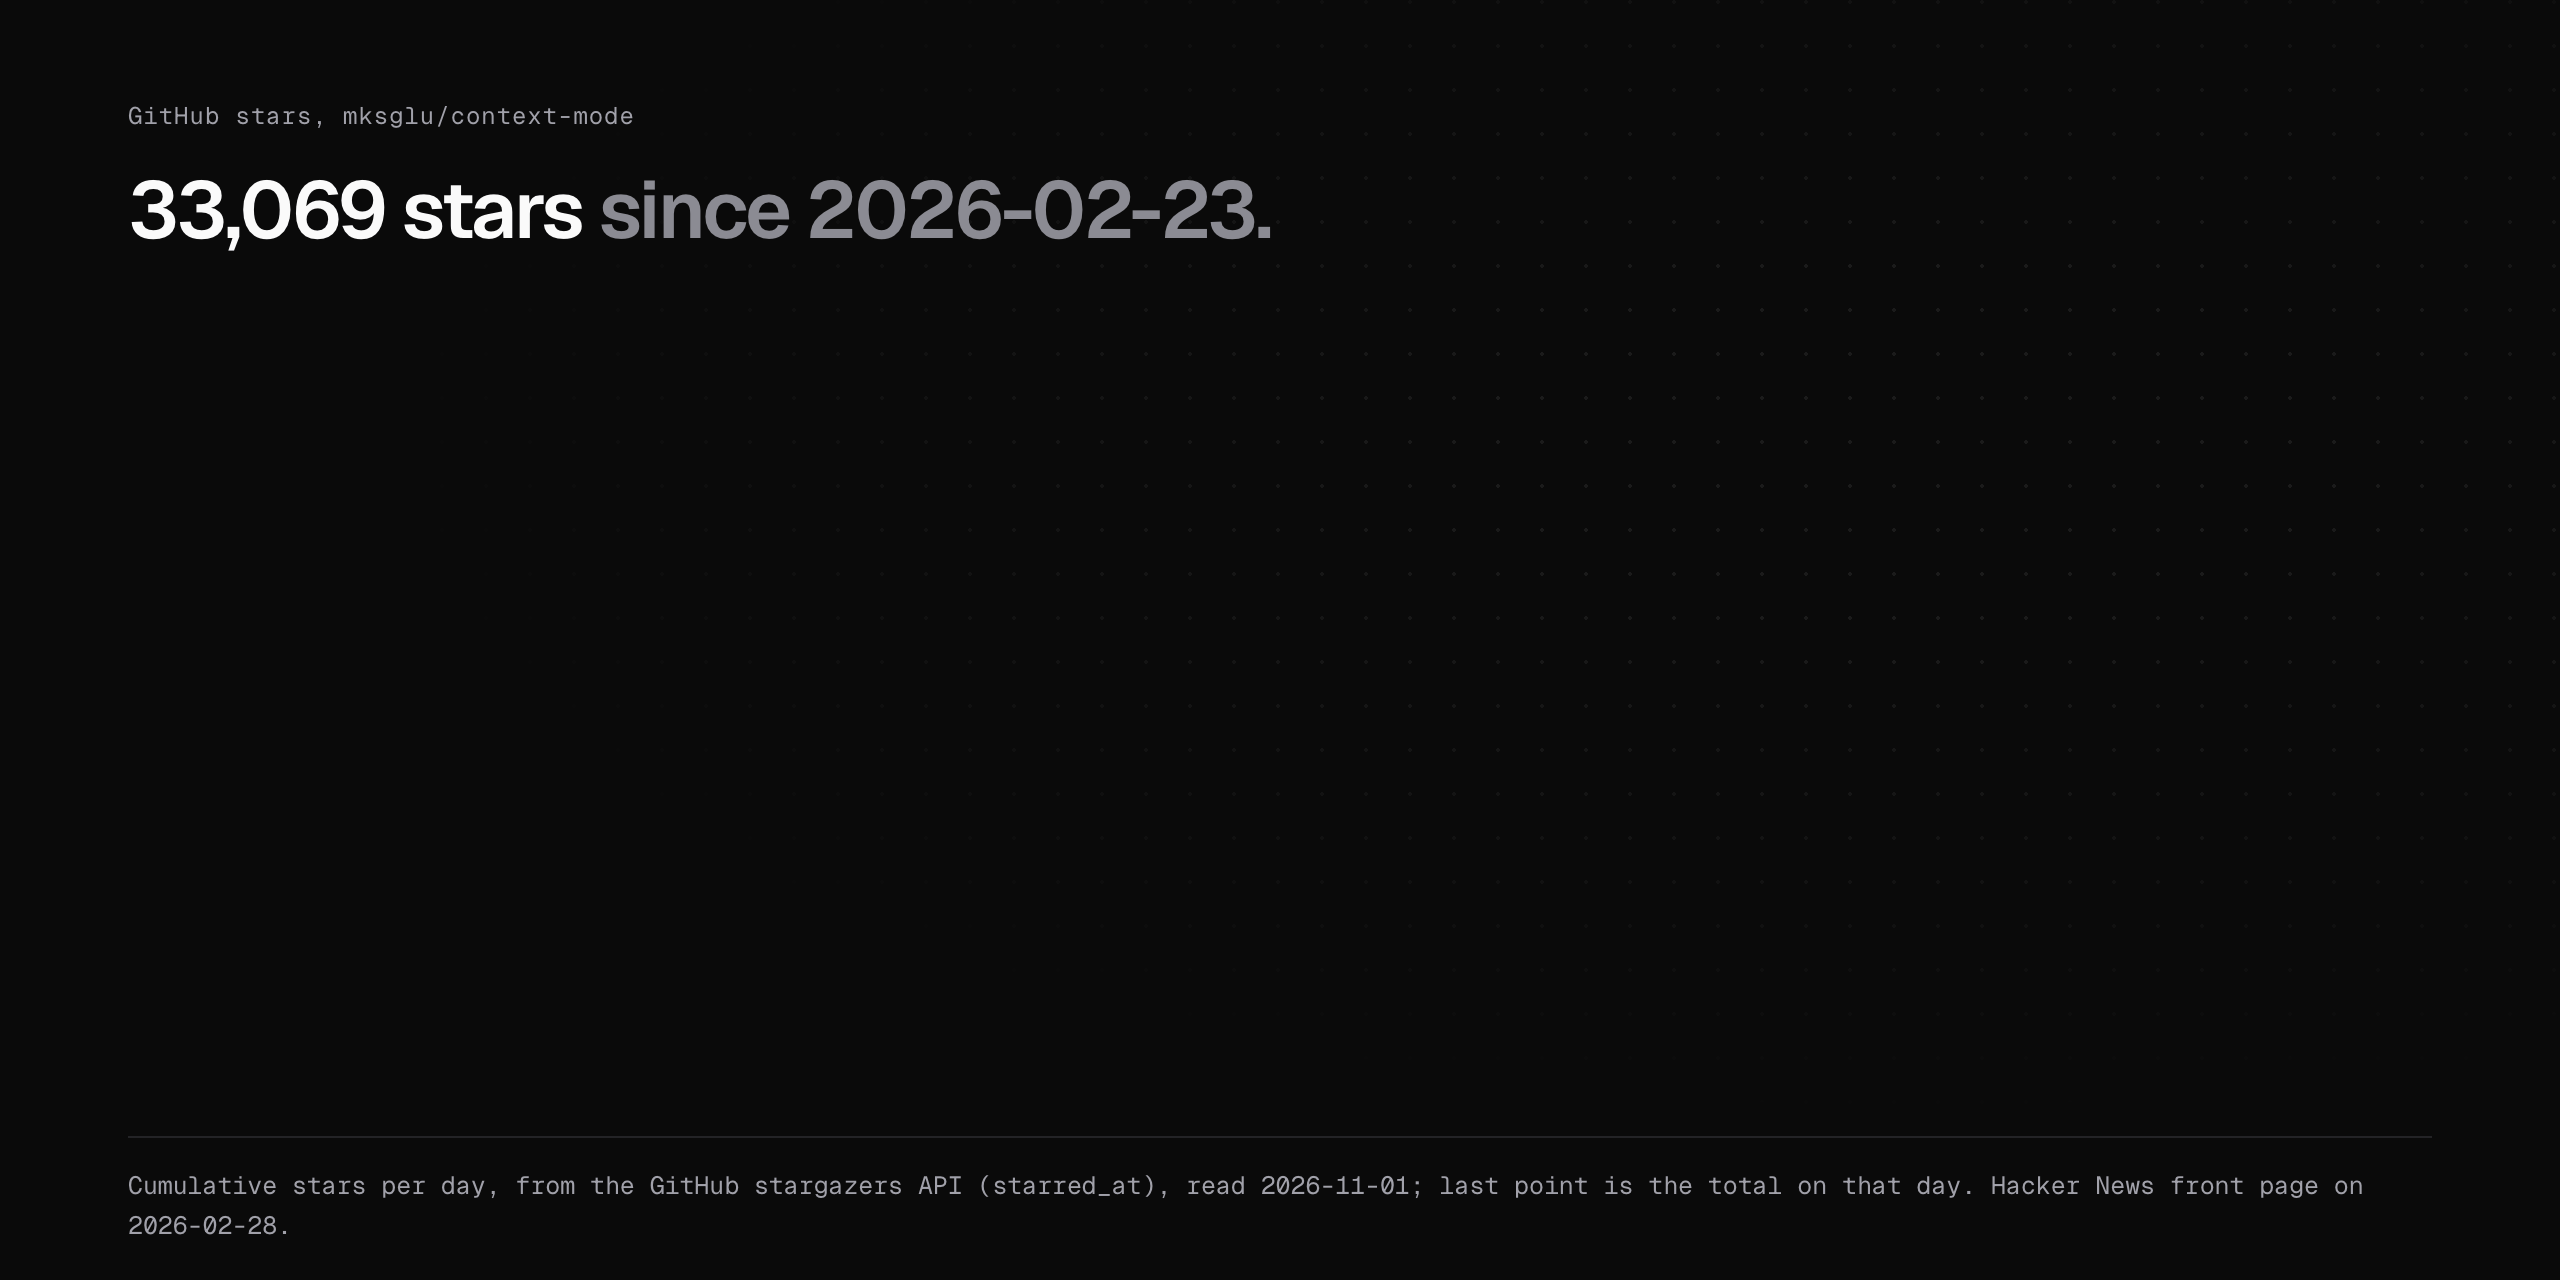
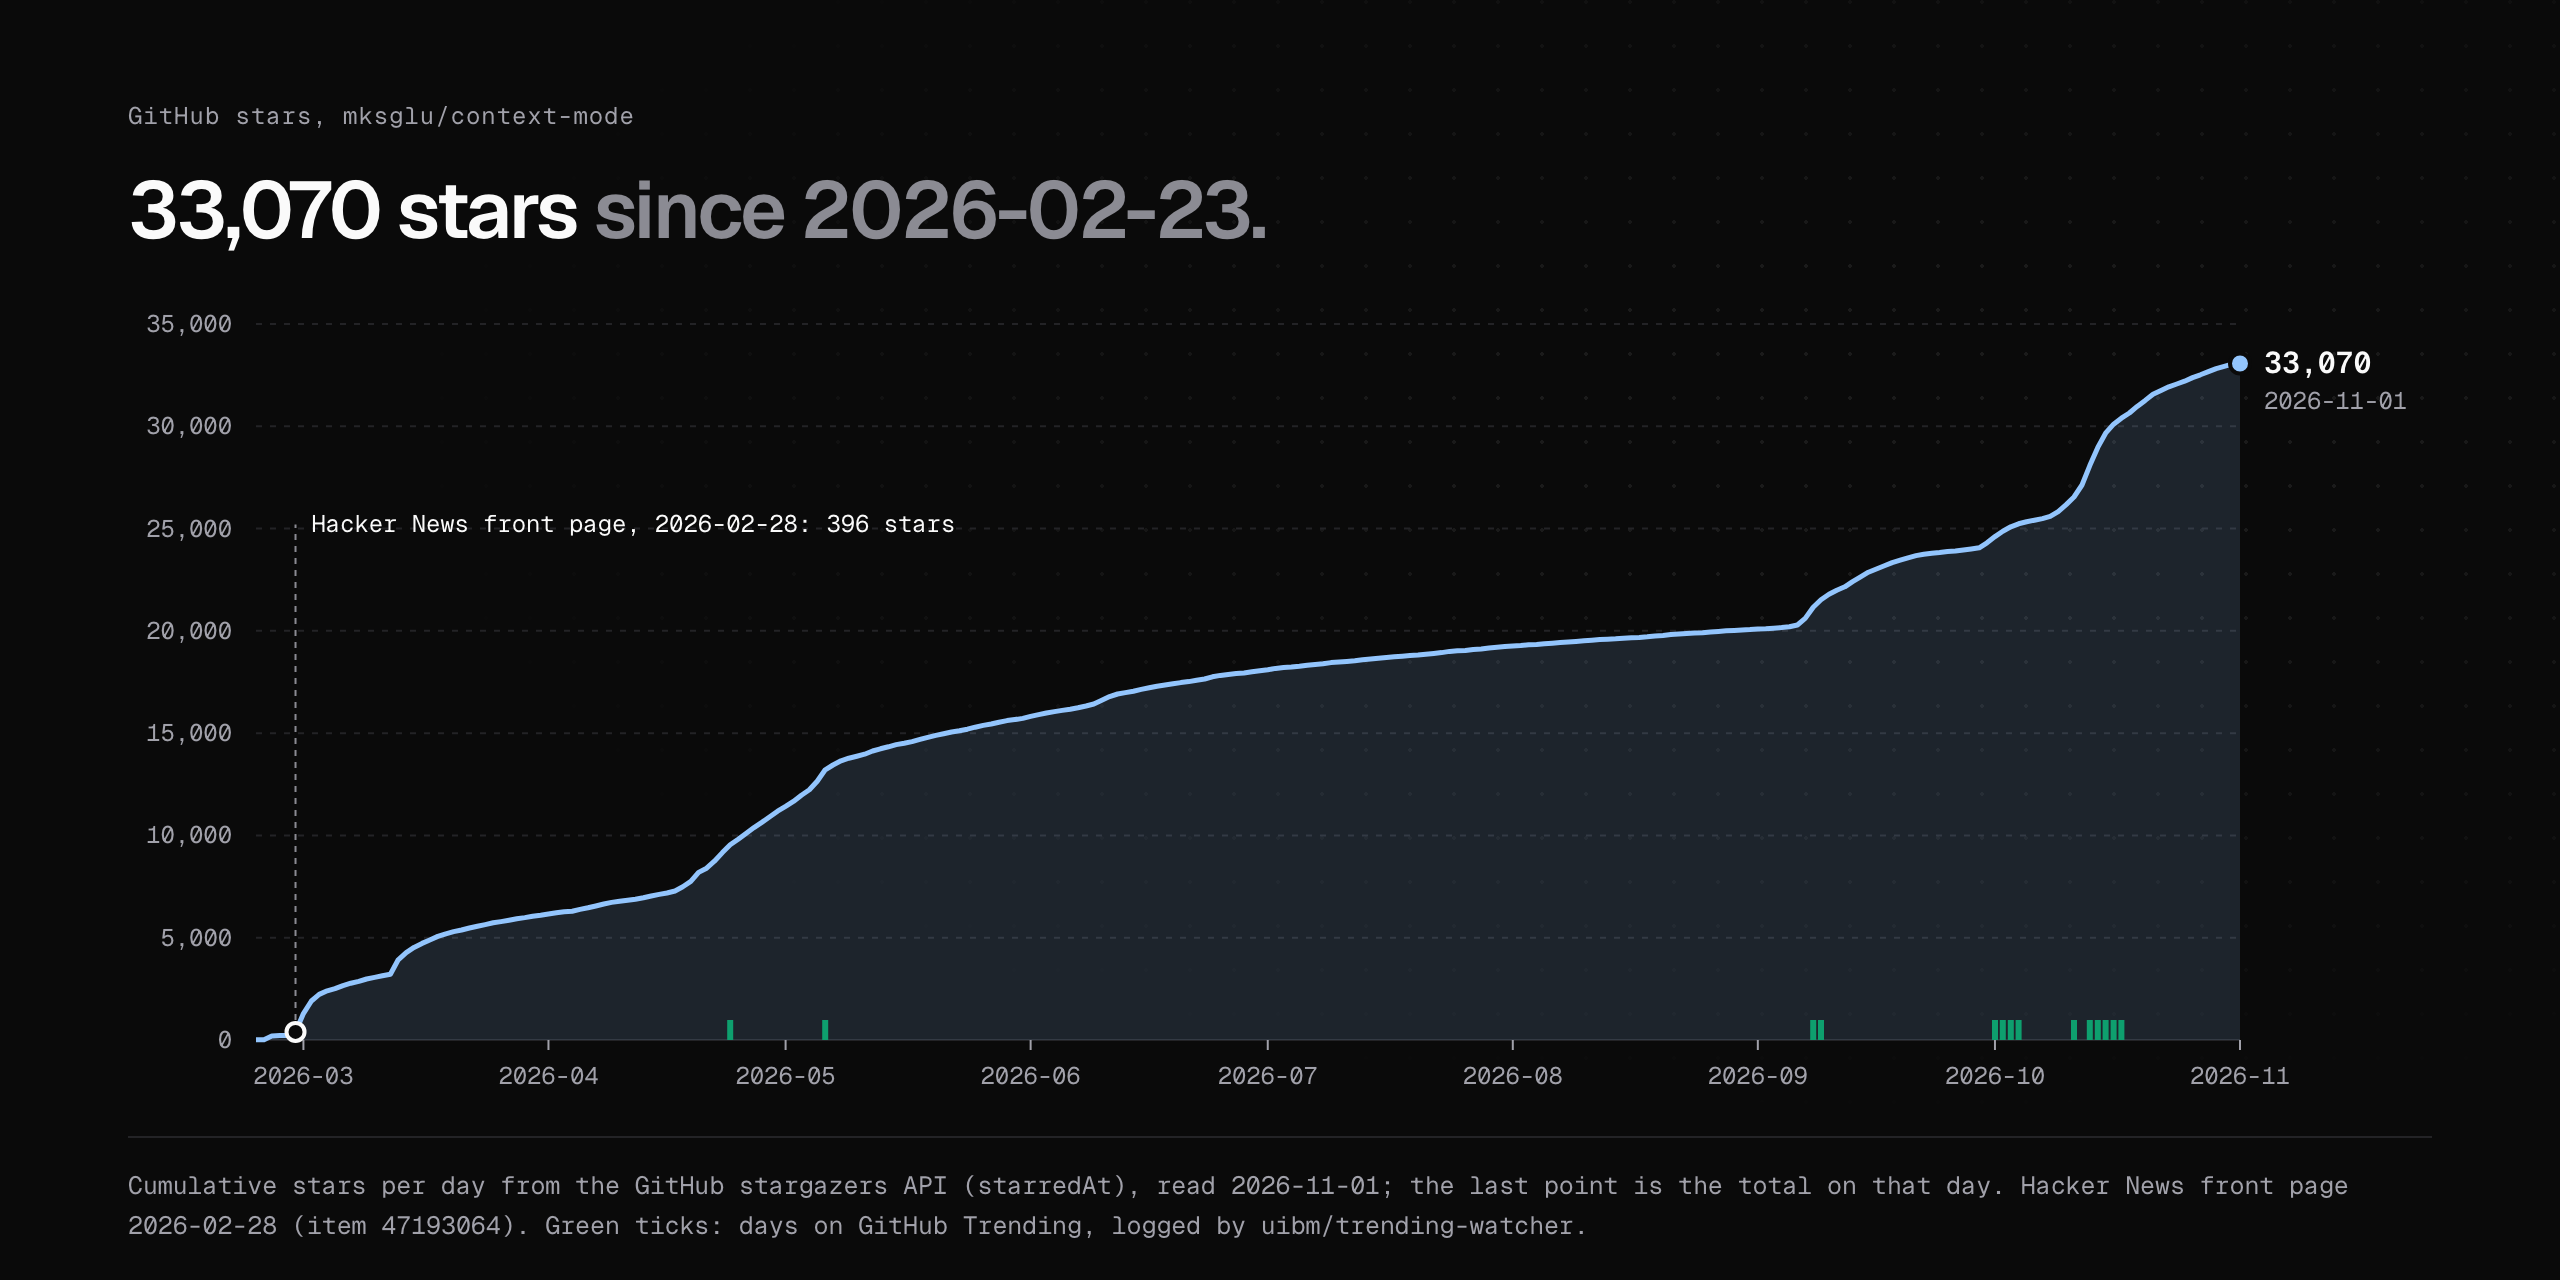
fix(readme): star chart drew nothing; page threw "NS is not defined" before it drew (D-README-STAR-1)
Root cause: f12df59c rewrote star-history.html and dropped the
`NS="http://www.w3.org/2000/svg"` declaration. The page script threw a
ReferenceError on the first createElementNS call, so no axis, line or
label was drawn. render.mjs never listened for page errors and took the
screenshot anyway: the PNG had the title and footer around an empty band.

Fix:
- star-history.html declares NS again, draws the cumulative curve per day
  with exact round y ticks, month labels on x, the exact last value at the
  end point and the Hacker News front page mark (2026-02-28), then sets
  window.__drawn = { points, pathLength }.
- render.mjs waits for window.__drawn, records page errors, and exits 1
  when the page threw, sent no signal, has fewer than 2 points, an empty
  path, or when the chart area of the PNG has too few non-background
  pixels (render-guard.mjs, a small PNG decoder that reads palette PNGs).
- build/readme-stats.mjs: one point per day (STEP_DAYS 1), not per 7 days.
- stats.json / star-data.js: fresh read, 33,070 stars on 2026-11-01.

Tests (tests/0014-repo-hygiene.test.mjs): render-guard logic, a pixel
check of the chart area and its lower half in both PNGs, the daily
readme-stats.yml uses the same guarded render. Checked red: with the NS
line removed, render.mjs prints "page error: NS is not defined | no drawn
signal from the page | chart area is empty: ink 0.00%" and exits 1.

diff --git a/docs/assets/readme/src/star-data.js b/docs/assets/readme/src/star-data.js
@@ -1,2 +1,2 @@
 // Written by build/readme-stats.mjs. Do not edit.
-var STARS=33069,READ_AT="2026-11-01",D=[["2026-02-23",5],["2026-03-02",1907],["2026-03-09",2983],["2026-03-16",4721],["2026-03-23",5565],["2026-03-30",6052],["2026-04-06",6460],["2026-04-13",6950],["2026-04-20",8192],["2026-04-27",10380],["2026-05-04",12227],["2026-05-11",13974],["2026-05-18",14692],["2026-05-25",15293],["2026-06-01",15820],["2026-06-08",16329],["2026-06-15",17139],["2026-06-22",17588],["2026-06-29",17995],["2026-07-06",18321],["2026-07-13",18584],["2026-07-20",18820],["2026-07-27",19091],["2026-08-03",19318],["2026-08-10",19516],["2026-08-17",19680],["2026-08-24",19891],["2026-08-31",20066],["2026-09-07",20605],["2026-09-14",22640],["2026-09-21",23679],["2026-09-28",24001],["2026-10-05",25330],["2026-10-12",27134],["2026-10-19",30969],["2026-10-26",32383],["2026-11-01",33069]];
+var STARS=33070,READ_AT="2026-11-01",D=[["2026-02-23",5],["2026-02-24",10],["2026-02-25",199],["2026-02-26",215],["2026-02-27",219],["2026-02-28",396],["2026-03-01",1286],["2026-03-02",1907],["2026-03-03",2233],["2026-03-04",2407],["2026-03-05",2513],["2026-03-06",2660],["2026-03-07",2772],["2026-03-08",2863],["2026-03-09",2983],["2026-03-10",3056],["2026-03-11",3141],["2026-03-12",3218],["2026-03-13",3916],["2026-03-14",4275],["2026-03-15",4528],["2026-03-16",4721],["2026-03-17",4888],["2026-03-18",5066],["2026-03-19",5189],["2026-03-20",5297],["2026-03-21",5380],["2026-03-22",5474],["2026-03-23",5565],["2026-03-24",5642],["2026-03-25",5726],["2026-03-26",5792],["2026-03-27",5859],["2026-03-28",5920],["2026-03-29",5985],["2026-03-30",6052],["2026-03-31",6105],["2026-04-01",6155],["2026-04-02",6220],["2026-04-03",6267],["2026-04-04",6297],["2026-04-05",6382],["2026-04-06",6460],["2026-04-07",6549],["2026-04-08",6646],["2026-04-09",6727],["2026-04-10",6789],["2026-04-11",6834],["2026-04-12",6882],["2026-04-13",6950],["2026-04-14",7042],["2026-04-15",7121],["2026-04-16",7183],["2026-04-17",7282],["2026-04-18",7490],["2026-04-19",7753],["2026-04-20",8192],["2026-04-21",8402],["2026-04-22",8741],["2026-04-23",9157],["2026-04-24",9545],["2026-04-25",9811],["2026-04-26",10101],["2026-04-27",10380],["2026-04-28",10637],["2026-04-29",10912],["2026-04-30",11186],["2026-05-01",11416],["2026-05-02",11659],["2026-05-03",11967],["2026-05-04",12227],["2026-05-05",12647],["2026-05-06",13212],["2026-05-07",13443],["2026-05-08",13646],["2026-05-09",13778],["2026-05-10",13871],["2026-05-11",13974],["2026-05-12",14125],["2026-05-13",14234],["2026-05-14",14329],["2026-05-15",14436],["2026-05-16",14507],["2026-05-17",14591],["2026-05-18",14692],["2026-05-19",14793],["2026-05-20",14889],["2026-05-21",14969],["2026-05-22",15053],["2026-05-23",15112],["2026-05-24",15188],["2026-05-25",15293],["2026-05-26",15382],["2026-05-27",15448],["2026-05-28",15537],["2026-05-29",15609],["2026-05-30",15663],["2026-05-31",15719],["2026-06-01",15820],["2026-06-02",15905],["2026-06-03",15988],["2026-06-04",16054],["2026-06-05",16116],["2026-06-06",16167],["2026-06-07",16235],["2026-06-08",16329],["2026-06-09",16429],["2026-06-10",16606],["2026-06-11",16783],["2026-06-12",16912],["2026-06-13",16982],["2026-06-14",17052],["2026-06-15",17139],["2026-06-16",17219],["2026-06-17",17291],["2026-06-18",17356],["2026-06-19",17413],["2026-06-20",17475],["2026-06-21",17524],["2026-06-22",17588],["2026-06-23",17649],["2026-06-24",17754],["2026-06-25",17819],["2026-06-26",17869],["2026-06-27",17908],["2026-06-28",17944],["2026-06-29",17995],["2026-06-30",18043],["2026-07-01",18094],["2026-07-02",18161],["2026-07-03",18207],["2026-07-04",18234],["2026-07-05",18274],["2026-07-06",18321],["2026-07-07",18357],["2026-07-08",18393],["2026-07-09",18452],["2026-07-10",18481],["2026-07-11",18509],["2026-07-12",18534],["2026-07-13",18584],["2026-07-14",18624],["2026-07-15",18661],["2026-07-16",18701],["2026-07-17",18736],["2026-07-18",18758],["2026-07-19",18787],["2026-07-20",18820],["2026-07-21",18855],["2026-07-22",18894],["2026-07-23",18938],["2026-07-24",18999],["2026-07-25",19024],["2026-07-26",19042],["2026-07-27",19091],["2026-07-28",19115],["2026-07-29",19159],["2026-07-30",19203],["2026-07-31",19233],["2026-08-01",19261],["2026-08-02",19284],["2026-08-03",19318],["2026-08-04",19342],["2026-08-05",19367],["2026-08-06",19399],["2026-08-07",19427],["2026-08-08",19460],["2026-08-09",19486],["2026-08-10",19516],["2026-08-11",19548],["2026-08-12",19574],["2026-08-13",19595],["2026-08-14",19615],["2026-08-15",19639],["2026-08-16",19660],["2026-08-17",19680],["2026-08-18",19712],["2026-08-19",19746],["2026-08-20",19775],["2026-08-21",19818],["2026-08-22",19849],["2026-08-23",19871],["2026-08-24",19891],["2026-08-25",19909],["2026-08-26",19942],["2026-08-27",19970],["2026-08-28",20007],["2026-08-29",20023],["2026-08-30",20042],["2026-08-31",20066],["2026-09-01",20090],["2026-09-02",20105],["2026-09-03",20130],["2026-09-04",20159],["2026-09-05",20199],["2026-09-06",20286],["2026-09-07",20605],["2026-09-08",21159],["2026-09-09",21519],["2026-09-10",21792],["2026-09-11",21987],["2026-09-12",22149],["2026-09-13",22410],["2026-09-14",22640],["2026-09-15",22863],["2026-09-16",23021],["2026-09-17",23184],["2026-09-18",23335],["2026-09-19",23457],["2026-09-20",23570],["2026-09-21",23679],["2026-09-22",23751],["2026-09-23",23797],["2026-09-24",23836],["2026-09-25",23881],["2026-09-26",23908],["2026-09-27",23957],["2026-09-28",24001],["2026-09-29",24064],["2026-09-30",24308],["2026-10-01",24606],["2026-10-02",24867],["2026-10-03",25085],["2026-10-04",25237],["2026-10-05",25330],["2026-10-06",25405],["2026-10-07",25484],["2026-10-08",25598],["2026-10-09",25828],["2026-10-10",26167],["2026-10-11",26545],["2026-10-12",27134],["2026-10-13",28079],["2026-10-14",28965],["2026-10-15",29664],["2026-10-16",30103],["2026-10-17",30400],["2026-10-18",30648],["2026-10-19",30969],["2026-10-20",31262],["2026-10-21",31565],["2026-10-22",31750],["2026-10-23",31926],["2026-10-24",32070],["2026-10-25",32203],["2026-10-26",32383],["2026-10-27",32519],["2026-10-28",32674],["2026-10-29",32824],["2026-10-30",32926],["2026-10-31",33035],["2026-11-01",33070]];

diff --git a/docs/assets/readme/src/star-history.html b/docs/assets/readme/src/star-history.html
@@ -2,23 +2,42 @@
 <script>var T=new URLSearchParams(location.search).get('theme')||'dark';document.documentElement.className=T;</script>
 <link rel="stylesheet" href="cm.css">
 <script src="star-data.js"></script>
-<style>:root{--w:1280px;--h:640px}.h2{position:absolute;left:64px;top:84px;font-size:40px}.tl{font-family:var(--mono);font-size:11px;fill:var(--muted)}</style></head><body>
+<style>:root{--w:1280px;--h:640px}.h2{position:absolute;left:64px;top:84px;font-size:40px}
+svg .tl{font-family:var(--mono);font-size:12px;fill:var(--muted)}svg .end{font-family:var(--mono);font-size:15px;font-weight:600;fill:var(--fg)}
+svg .ev{font-family:var(--mono);font-size:12px;fill:var(--fg)}</style></head><body>
 <main class="art" id="art"><div class="dots"></div>
 <div class="abs eyebrow" style="left:64px;top:52px">GitHub stars, mksglu/context-mode</div>
 <div class="h h2"><span id="hs"></span> stars <em id="hsince"></em></div>
-<svg id="sv" class="abs" style="left:64px;top:160px" width="1152" height="380"></svg>
-<div class="cap">Cumulative stars per day, from the GitHub stargazers API (starred_at), read <span id="hread"></span>; last point is the total on that day. Hacker News front page on 2026-02-28.</div>
+<svg id="sv" class="abs" style="left:64px;top:150px" width="1152" height="400"></svg>
+<div class="cap">Cumulative stars per day from the GitHub stargazers API (starredAt), read <span id="hread"></span>; the last point is the total on that day.
+Hacker News front page 2026-02-28 (item 47193064). Green ticks: days on GitHub Trending, logged by uibm/trending-watcher.</div>
 </main>
 <script>
+// D-README-STAR-1: sv and NS are set here, before any drawing; window.__drawn tells render.mjs that the chart is drawn.
+var sv=document.getElementById("sv"),NS="http://www.w3.org/2000/svg";
+// Days on GitHub Trending: the 14 issues "Check trending repo: mksglu/context-mode" in github.com/uibm/trending-watcher (read 2026-11-01).
+var TRENDING=["2026-04-24","2026-05-06","2026-09-08","2026-09-09","2026-10-01","2026-10-02","2026-10-03","2026-10-04","2026-10-11","2026-10-13","2026-10-14","2026-10-15","2026-10-16","2026-10-17"];
+var HN="2026-02-28";
 document.getElementById("hs").textContent=STARS.toLocaleString("en-US");document.getElementById("hsince").textContent="since "+D[0][0]+".";document.getElementById("hread").textContent=READ_AT;
-var W=1152,H=380,L=60,B=30,max=Math.ceil(STARS/5000)*5000;
-function el(n,a){var e=document.createElementNS(NS,n);for(var k in a)e.setAttribute(k,a[k]);sv.appendChild(e);return e}
+var W=1152,H=400,L=64,R=96,TOP=12,B=30,STEP=5000,max=Math.ceil(STARS/STEP)*STEP;
+function el(n,a,txt){var e=document.createElementNS(NS,n);for(var k in a)e.setAttribute(k,a[k]);if(txt!==undefined)e.textContent=txt;sv.appendChild(e);return e}
 var t0=Date.parse(D[0][0]),t1=Date.parse(D[D.length-1][0]);
-function X(d){return L+(W-L-10)*(Date.parse(d)-t0)/(t1-t0)}function Y(v){return H-B-(H-B-10)*v/max}
-for(var v=0;v<=max;v+=5000){el("line",{x1:L,x2:W-10,y1:Y(v),y2:Y(v),stroke:"var(--card-b)","stroke-dasharray":"3 4"});var tx=el("text",{x:L-10,y:Y(v)+4,"text-anchor":"end",class:"tl"});tx.textContent=v.toLocaleString("en-US")}
-var ticks=[];for(var m=new Date(D[0][0]);m<=new Date(READ_AT);m=new Date(Date.UTC(m.getUTCFullYear(),m.getUTCMonth()+2,1)))if(m>new Date(D[0][0]))ticks.push(m.toISOString().slice(0,10));
-ticks.forEach(function(d){var tx=el("text",{x:X(d),y:H-8,"text-anchor":"middle",class:"tl"});tx.textContent=d.slice(0,7)});
+function X(d){return L+(W-L-R)*(Date.parse(d)-t0)/(t1-t0)}function Y(v){return H-B-(H-B-TOP)*v/max}
+function at(d){var v=0;for(var i=0;i<D.length&&D[i][0]<=d;i++)v=D[i][1];return v}
+for(var v=0;v<=max;v+=STEP){el("line",{x1:L,x2:W-R,y1:Y(v),y2:Y(v),stroke:"var(--card-b)","stroke-width":1,"stroke-dasharray":v?"3 4":""});el("text",{x:L-12,y:Y(v)+4,"text-anchor":"end",class:"tl"},v.toLocaleString("en-US"))}
+for(var m=new Date(Date.UTC(+D[0][0].slice(0,4),+D[0][0].slice(5,7),1));m.toISOString().slice(0,10)<=READ_AT;m=new Date(Date.UTC(m.getUTCFullYear(),m.getUTCMonth()+1,1))){
+  var d=m.toISOString().slice(0,10);el("line",{x1:X(d),x2:X(d),y1:H-B,y2:H-B+5,stroke:"var(--muted)","stroke-width":1});el("text",{x:X(d),y:H-8,"text-anchor":"middle",class:"tl"},d.slice(0,7))}
 var p=D.map(function(d,i){return (i?"L":"M")+X(d[0]).toFixed(1)+" "+Y(d[1]).toFixed(1)}).join(" ");
-el("path",{d:p+" L"+X(D[D.length-1][0])+" "+Y(0)+" L"+X(D[0][0])+" "+Y(0)+" Z",fill:"var(--accent)",opacity:"0.12"});
-el("path",{d:p,fill:"none",stroke:"var(--accent)","stroke-width":"3"});
+var xe=X(D[D.length-1][0]),ye=Y(STARS);
+el("path",{d:p+" L"+xe.toFixed(1)+" "+Y(0)+" L"+X(D[0][0]).toFixed(1)+" "+Y(0)+" Z",fill:"var(--accent)","fill-opacity":"0.14"});
+TRENDING.forEach(function(d){if(d>=D[0][0]&&d<=READ_AT)el("rect",{x:(X(d)-1.5).toFixed(1),y:H-B-10,width:3,height:10,fill:"var(--save)"})});
+var line=el("path",{d:p,fill:"none",stroke:"var(--accent)","stroke-width":"2.5","stroke-linejoin":"round"});
+var xh=X(HN),yh=Y(at(HN));
+el("line",{x1:xh,x2:xh,y1:yh-6,y2:Y(max*0.72),stroke:"var(--fg2)","stroke-width":1,"stroke-dasharray":"3 3"});
+el("circle",{cx:xh,cy:yh,r:4.5,fill:"var(--bg)",stroke:"var(--fg)","stroke-width":2});
+el("text",{x:xh+8,y:Y(max*0.72)+4,class:"ev"},"Hacker News front page, "+HN+": "+at(HN).toLocaleString("en-US")+" stars");
+el("circle",{cx:xe,cy:ye,r:5,fill:"var(--accent)",stroke:"var(--bg)","stroke-width":2});
+el("text",{x:xe+12,y:ye+5,class:"end"},STARS.toLocaleString("en-US"));
+el("text",{x:xe+12,y:ye+23,class:"tl"},READ_AT);
+window.__drawn={points:D.length,pathLength:line.getTotalLength()};
 </script></body></html>
